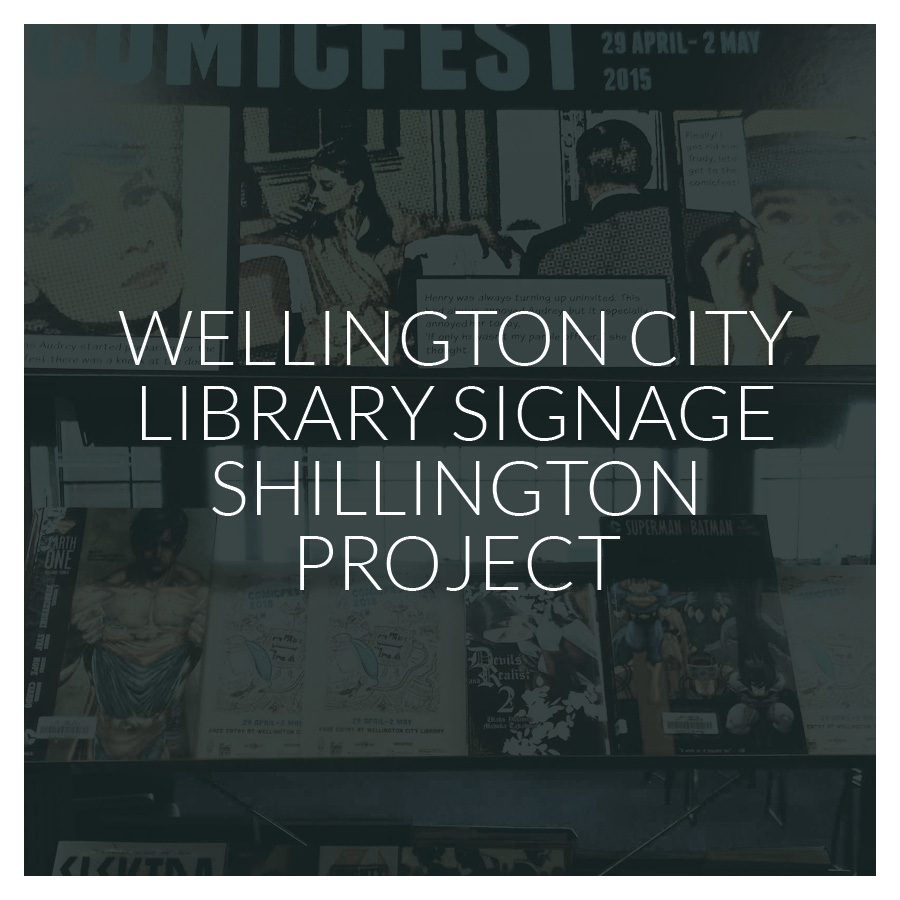
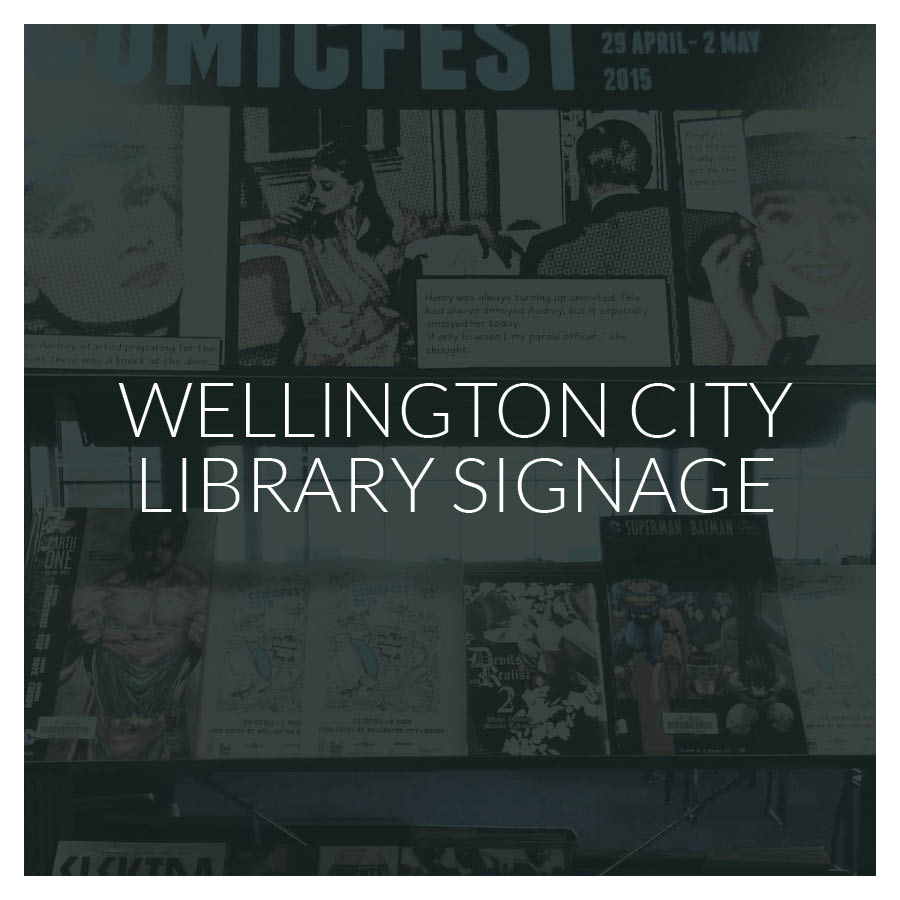
update wcc title, more closing tags on photos and illustrations pages

Changed region(s): [[0.1244, 0.3422, 0.8711, 0.6533]]

diff --git a/illustrations.html b/illustrations.html
@@ -12,17 +12,13 @@
     <h1><a href="index.html" id="Homepage">ESTHER CURNOW</a></h1>
     <h2>ILLUSTRATION</h2>
     <div class="grid">
-      <a class="fancybox" href="illustrations/hill_big.jpg"  title="Superboy"><img src="illustrations/hill.jpg" class="grid-item grid-item-space-below">
-      <a class="fancybox" href="illustrations/mirror_big.jpg"  title="Mum's clothes"><img src="illustrations/mirror.jpg" class="grid-item grid-item-space-below">
-      <a class="fancybox" href="illustrations/bus_big.jpg"  title="Brrrrrmm"><img src="illustrations/bus.jpg" class="grid-item grid-item-space-below">
-      <a class="fancybox" href="illustrations/train_big.jpg"  title="Superboy"><img src="illustrations/train.jpg" class="grid-item grid-item-space-below">
-      <a class="fancybox" href="illustrations/tv_big.jpg"  title="TV"><img src="illustrations/tv.jpg" class="grid-item grid-item-space-below">
-      <a class="fancybox" href="illustrations/clouds_big.jpg"  title="Cloud"><img src="illustrations/clouds.jpg" class="grid-item grid-item-space-below">
-      <a class="fancybox" href="illustrations/cows_big.jpg"  title="The Trail"><img src="illustrations/cows.jpg" class="grid-item grid-item-space-below">
-      <a class="fancybox" href="illustrations/tractor_big.jpg"  title="The Trail"><img src="illustrations/tractor.jpg" class="grid-item grid-item-space-below">
-      <a class="fancybox" href="illustrations/judyonhill_big.jpg"  title="The Trail"><img src="illustrations/judyonhill.jpg" class="grid-item grid-item-space-below">
-      <a class="fancybox" href="illustrations/studyingnooks_big.jpg"  title="The Trail"><img src="illustrations/studyingnooks.jpg" class="grid-item grid-item-space-below">
-      <a class="fancybox" href="illustrations/studyingnooks2_big.jpg"  title="The Trail"><img src="illustrations/studyingnooks2.jpg" class="grid-item grid-item-space-below">
+      <a class="fancybox" href="illustrations/hill_big.jpg"  title="Superboy"><img src="illustrations/hill.jpg" class="grid-item grid-item-space-below"></a>
+      <a class="fancybox" href="illustrations/mirror_big.jpg"  title="Mum's clothes"><img src="illustrations/mirror.jpg" class="grid-item grid-item-space-below"></a>
+      <a class="fancybox" href="illustrations/tv_big.jpg"  title="TV"><img src="illustrations/tv.jpg" class="grid-item grid-item-space-below"></a>
+      <a class="fancybox" href="illustrations/clouds_big.jpg"  title="Cloud"><img src="illustrations/clouds.jpg" class="grid-item grid-item-space-below"></a>
+      <a class="fancybox" href="illustrations/cows_big.jpg"  title="The Trail"><img src="illustrations/cows.jpg" class="grid-item grid-item-space-below"></a>
+      <a class="fancybox" href="illustrations/judyonhill_big.jpg"  title="The Trail"><img src="illustrations/judyonhill.jpg" class="grid-item grid-item-space-below"></a>
+   
     </div>
 
     <script type="text/javascript" src="http://code.jquery.com/jquery-latest.min.js"></script>

diff --git a/photos.html b/photos.html
@@ -5,7 +5,6 @@
     <title>Esther Curnow - Photos</title>
     <link href='http://fonts.googleapis.com/css?family=Lato:100,300' rel='stylesheet' type='text/css'>
     <link rel="stylesheet" href="portfolio.css" type="text/css" media="screen">
-    <!-- Add fancyBox main CSS file -->
     <link rel="stylesheet" type="text/css" href="jquery.fancybox3.min.css" media="screen" />
   </head>
   <body>
